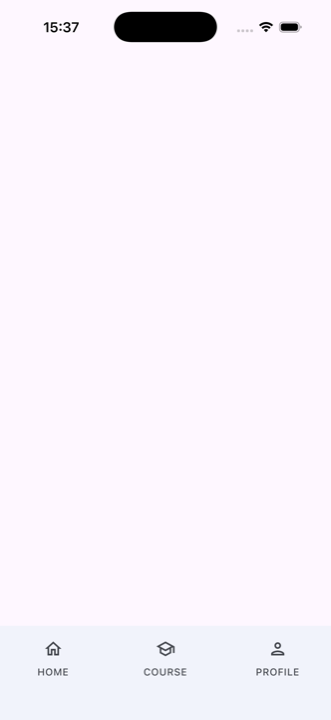
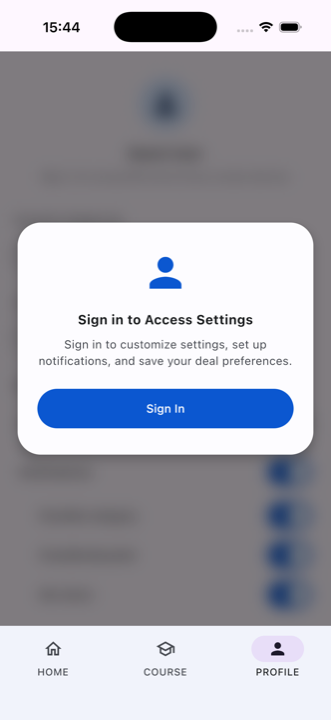
fix(ios): fix profile route matching and update iOS profile evidence screenshot

diff --git a/shared/src/iosMain/kotlin/com/thanh0x/coursedeals/shared/MainViewController.kt b/shared/src/iosMain/kotlin/com/thanh0x/coursedeals/shared/MainViewController.kt
@@ -51,8 +51,8 @@ fun MainViewController(): UIViewController {
         else -> AppScreen.Login
     }
     val initialRoute = when {
-        isProfile -> "profile_route"
-        else -> "home_route"
+        isProfile -> "profile"
+        else -> "home"
     }
     val initialAuthMode = when {
         isOtp || isConsent -> AuthMode.VERIFY_OTP
